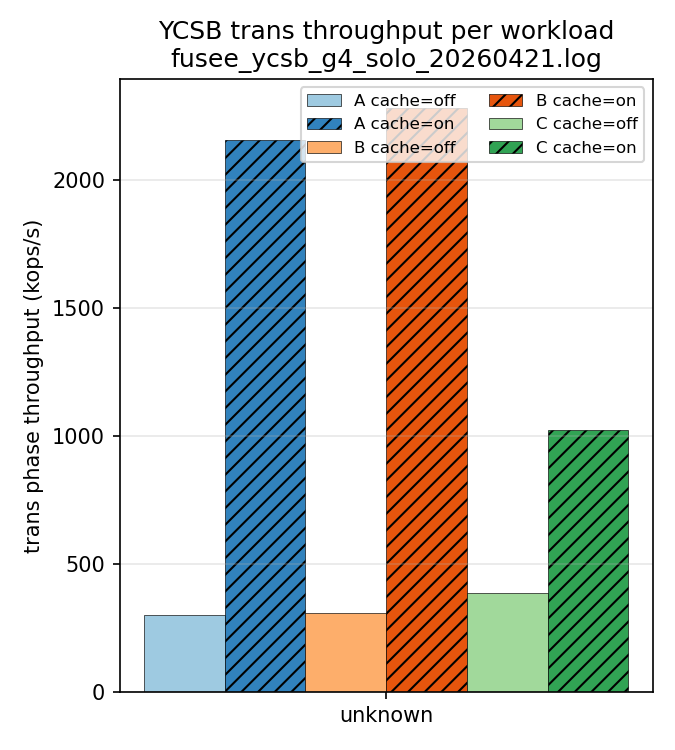
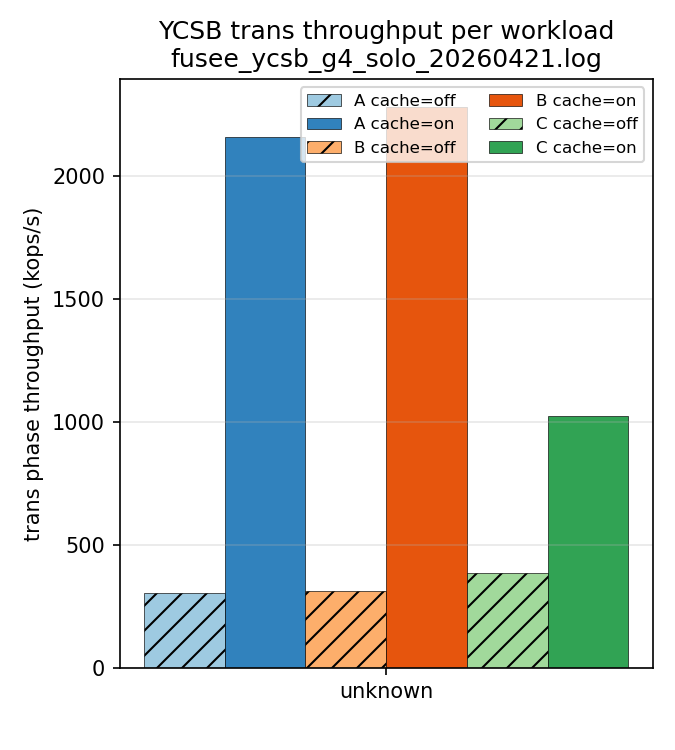
[viz] YCSB plot: match tmpfs_vs_cxl palette; add op-mix under each workload tick

diff --git a/docs/plot_fusee_ycsb.py b/docs/plot_fusee_ycsb.py
@@ -81,10 +81,12 @@ def plot(path, runs):
 
     fig, ax = plt.subplots(figsize=(1.5 * n_groups + 3, 5))
 
+    # Primary palette = cache-on (solid, matching fusee_ycsb_tmpfs_vs_cxl_*).
+    # Secondary = cache-off (lighter + hatched) when both are shown.
     colors_off = {"A": "#9ecae1", "B": "#fdae6b", "C": "#a1d99b"}
     colors_on  = {"A": "#3182bd", "B": "#e6550d", "C": "#31a354"}
-    hatch_off = ""
-    hatch_on  = "///"
+    hatch_off = "//"
+    hatch_on  = ""
 
     x = list(range(n_groups))
     for bi, opt in enumerate(opts):
@@ -101,8 +103,19 @@ def plot(path, runs):
                    color=color, hatch=hatch, edgecolor="black", linewidth=0.3,
                    label=label)
 
+    # YCSB op-mix description per official workload.
+    ratio_desc = {
+        "workloada": "50% R / 50% U",
+        "workloadb": "95% R / 5% U",
+        "workloadc": "100% R",
+        "workloadd": "95% R / 5% I\n(latest)",
+        "workloade": "95% SCAN / 5% I",
+        "workloadf": "50% R / 50% RMW",
+    }
     ax.set_xticks(x)
-    ax.set_xticklabels(workloads, rotation=0)
+    ax.set_xticklabels(
+        [f"{wl}\n{ratio_desc.get(wl, '')}" for wl in workloads],
+        rotation=0)
     ax.set_ylabel("trans phase throughput (kops/s)")
     title_tag = os.path.basename(path)
     ax.set_title(f"YCSB trans throughput per workload\n{title_tag}")
